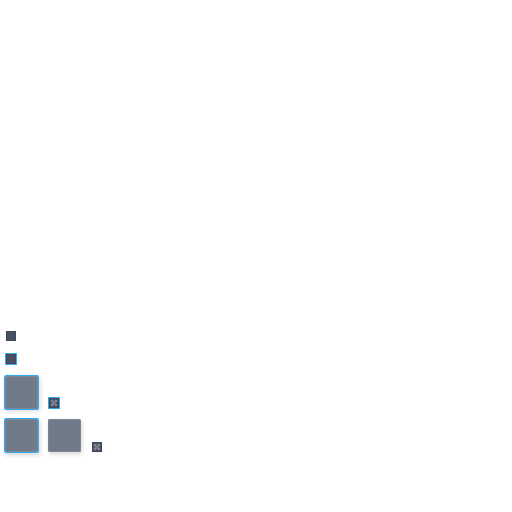
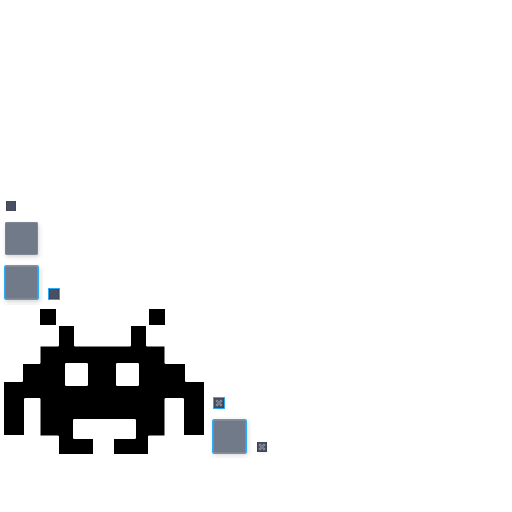
Added generic title screen code.

Changed region(s): [[0.0, 0.375, 0.5312, 0.9062]]

diff --git a/core/src/com/ray3k/jam/screens/TitleScreen.java b/core/src/com/ray3k/jam/screens/TitleScreen.java
@@ -25,6 +25,18 @@ package com.ray3k.jam.screens;
 
 import com.badlogic.gdx.Gdx;
 import com.badlogic.gdx.graphics.GL20;
+import com.badlogic.gdx.graphics.g2d.ParticleEffect;
+import com.badlogic.gdx.scenes.scene2d.Action;
+import com.badlogic.gdx.scenes.scene2d.InputEvent;
+import com.badlogic.gdx.scenes.scene2d.InputListener;
+import com.badlogic.gdx.scenes.scene2d.Stage;
+import com.badlogic.gdx.scenes.scene2d.actions.Actions;
+import com.badlogic.gdx.scenes.scene2d.ui.Image;
+import com.badlogic.gdx.scenes.scene2d.ui.Label;
+import com.badlogic.gdx.scenes.scene2d.ui.Skin;
+import com.badlogic.gdx.scenes.scene2d.ui.Table;
+import com.badlogic.gdx.utils.Scaling;
+import com.badlogic.gdx.utils.viewport.ScreenViewport;
 import com.ray3k.jam.Core;
 import com.ray3k.jam.JamScreen;
 
@@ -33,16 +45,65 @@ import com.ray3k.jam.JamScreen;
  * @author Raymond
  */
 public class TitleScreen extends JamScreen {
+    private Stage stage;
+    private Skin skin;
+    private Core core;
 
     public TitleScreen(final Core core) {
+        this.core = core;
     }
 
     @Override
     public void show() {
+        this.skin = core.assetManager.get("ui/ui.json");
+        
+        stage = new Stage(new ScreenViewport());
+        Gdx.input.setInputProcessor(stage);
+        
+        var root = new Table();
+        root.setFillParent(true);
+        stage.addActor(root);
+        
+        root.setColor(1, 1, 1, 0);
+        root.addAction(Actions.fadeIn(1));
+        
+        var image = new Image(skin, "title");
+        image.setScaling(Scaling.fit);
+        root.add(image).grow();
+        
+        root.row();
+        var label = new Label("Press any key to begin...", skin);
+        root.add(label);
+
+        stage.addListener(new InputListener() {
+            @Override
+            public boolean keyDown(InputEvent event, int keycode) {
+                execute();
+                return true;
+            }
+
+            @Override
+            public boolean touchDown(InputEvent event, float x, float y, int pointer, int button) {
+                execute();
+                return true;
+            }
+            
+            private void execute() {
+                Gdx.input.setInputProcessor(null);
+                root.addAction(Actions.sequence(Actions.fadeOut(1), new Action() {
+                    @Override
+                    public boolean act(float delta) {
+                        core.setScreen(new MenuScreen(core));
+                        return true;
+                    }
+                }));
+            }
+        });
     }
 
     @Override
     public void act(float delta) {
+        stage.act();
     }
 
     @Override
@@ -50,10 +111,13 @@ public class TitleScreen extends JamScreen {
         Gdx.gl.glClearColor(0, 0, 0, 1);
         Gdx.gl.glClear(GL20.GL_COLOR_BUFFER_BIT);
         
+        core.batch.setBlendFunction(GL20.GL_SRC_ALPHA, GL20.GL_ONE_MINUS_SRC_ALPHA);
+        stage.draw();
     }
 
     @Override
     public void resize(int width, int height) {
+        stage.getViewport().update(width, height, true);
     }
 
     @Override
@@ -66,9 +130,11 @@ public class TitleScreen extends JamScreen {
 
     @Override
     public void hide() {
+        stage.dispose();
     }
 
     @Override
     public void dispose() {
+        stage.dispose();
     }
 }

diff --git a/core/src/com/ray3k/jam/screens/LogoScreen.java b/core/src/com/ray3k/jam/screens/LogoScreen.java
@@ -95,6 +95,7 @@ public class LogoScreen extends JamScreen {
         core.assetManager.unload("sfx/tick.mp3");
         core.assetManager.unload("spine/intro/logo.json");
         core.assetManager.unload("spine/intro/textureatlas.atlas");
+        Gdx.input.setInputProcessor(null);
     }
 
     @Override
